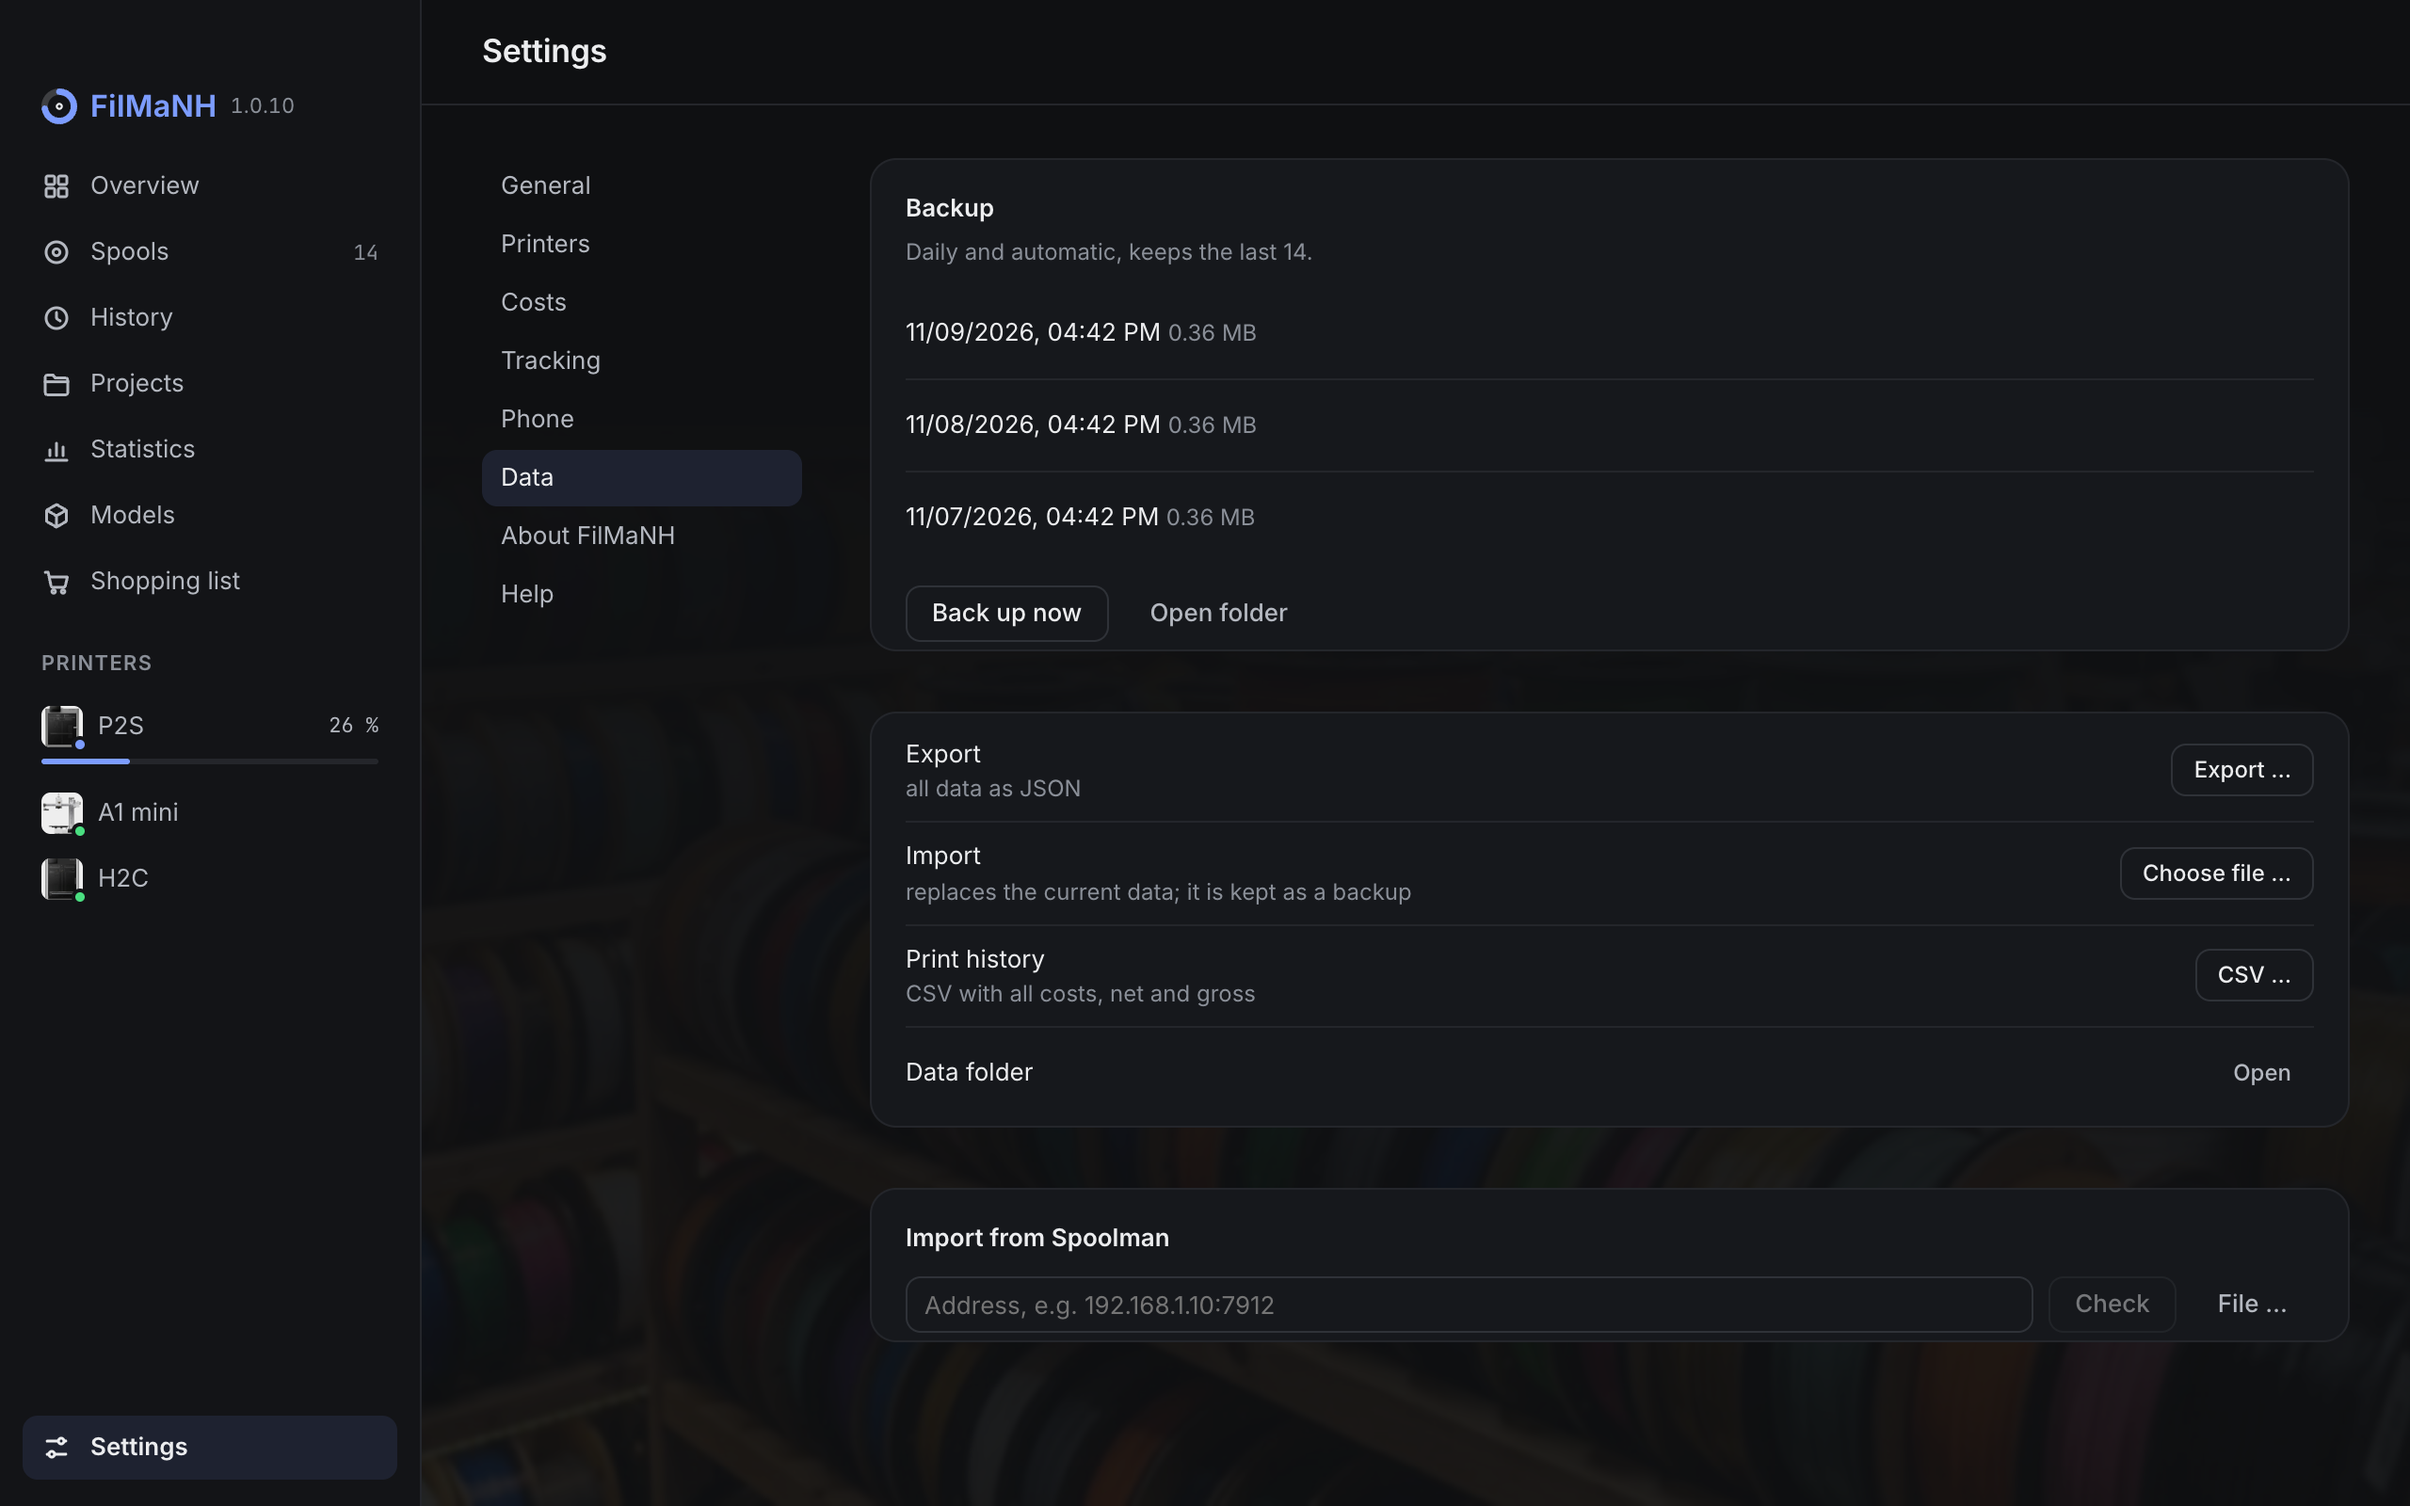
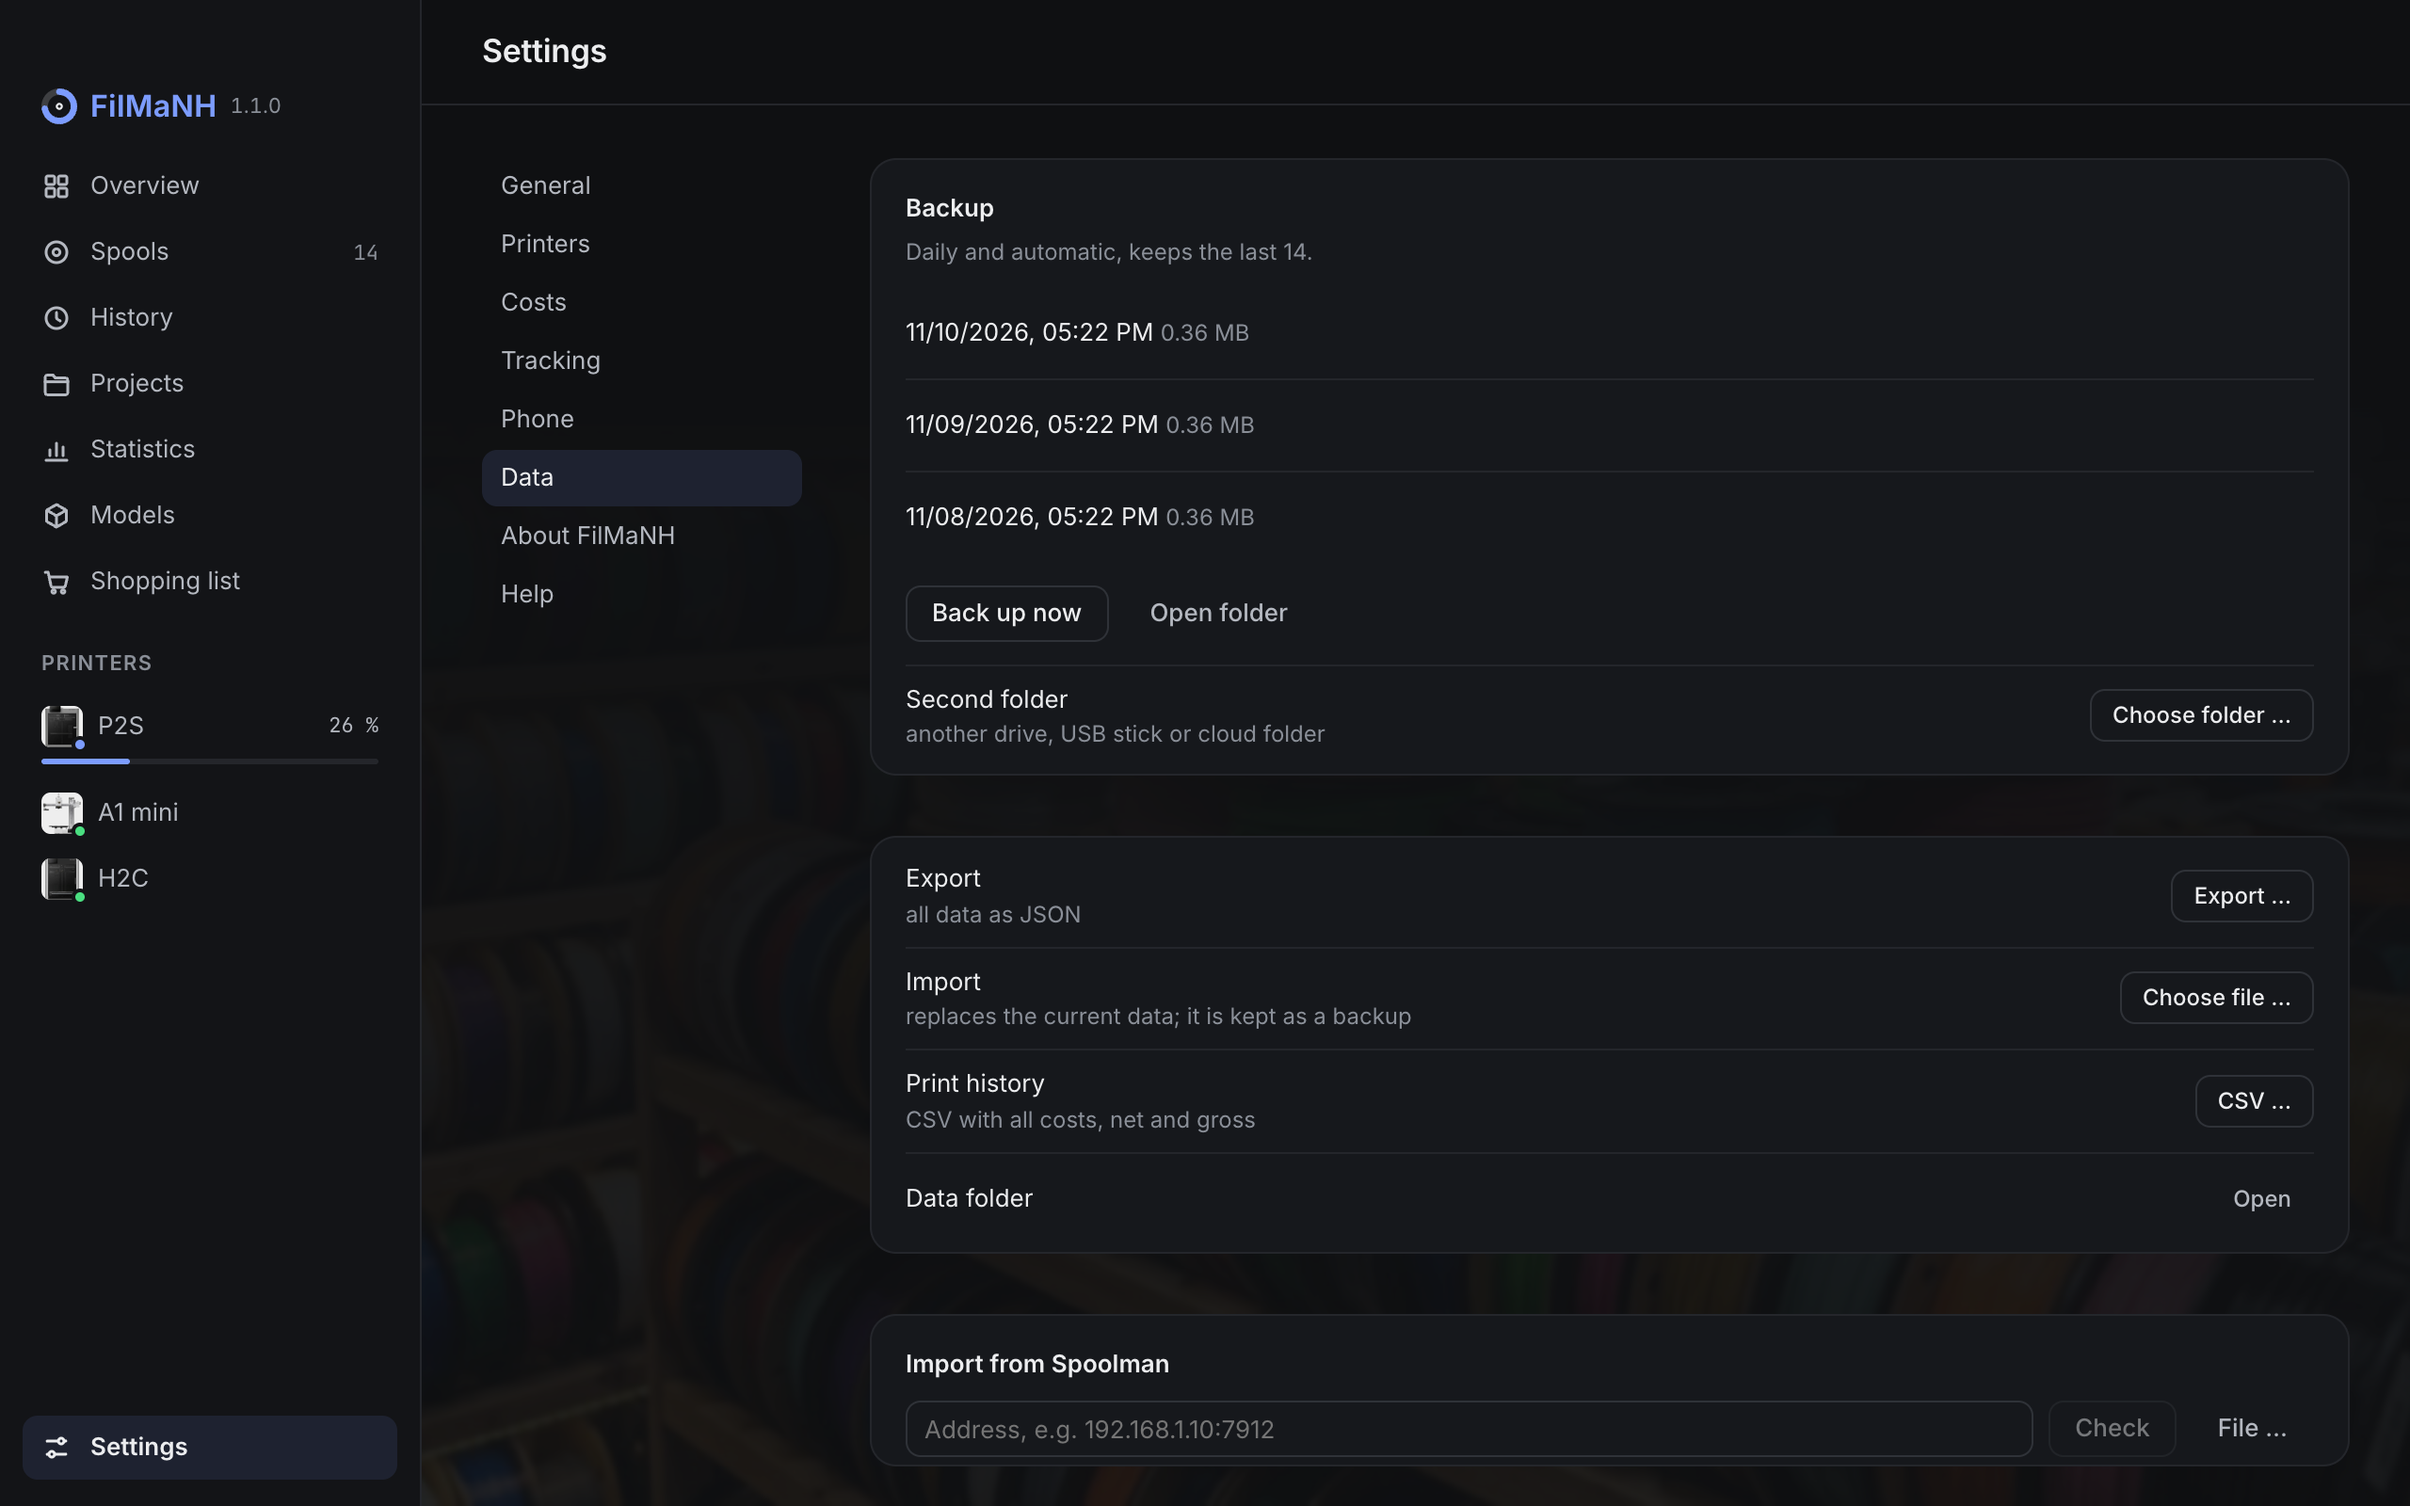
Handbuch: Sicherung in einen zweiten Ordner

diff --git a/handbook/README.md b/handbook/README.md
@@ -524,10 +524,10 @@ begins. Both only while FilMaNH is running and connected to the printer.
 ![Printer settings](images/22-einst-drucker.png)
 
 **Costs:** currency, VAT and whether prices are shown **Gross** or **Net**. All amounts on this page are shown and
-entered that way; internally FilMaNH calculates net. The VAT applies to electricity, printer purchase,
-selling price and new spools; each spool keeps its own rate. On a new installation, currency and VAT are preset for
-the system’s country (USA and Canada 0 %, since sales tax there varies by state or province; without a recognised
-country euro and 19 %).
+entered that way; internally FilMaNH calculates net. The VAT applies to electricity, printer purchase, selling
+price and new spools; each spool keeps its own rate. On a new installation, currency and VAT are preset for the
+system’s country (USA and Canada 0 %, since sales tax there varies by state or province; for a country FilMaNH
+doesn’t know, euro and 0 %; with no country at all, euro and 19 %).
 
 - **Electricity:** **Electricity price** per kWh and the power of each printer. Without your own value FilMaNH uses
   Bambu’s measured average for the model and the print’s material (e.g. A1 mini with PLA 80 W, P2S 200 W) – not the
@@ -580,6 +580,10 @@ What the apps can do is described in the handbooks for [iPhone](iphone.md) and [
 - Backup and export contain the database: spools, bookings, prints and settings – not photos, print files, 3D views,
   timelapses and source files. Those are in the data folder (`drucke`, `fotos`, `modelle`); copy it along when moving
   to another computer.
+- The backups are in the data folder as well, on the same disk. **Second folder** › **Choose folder …** also copies
+  every backup to a second place – another drive, a USB stick or a cloud folder; the last 14 versions are kept there
+  too. If the folder can’t be reached, FilMaNH tells you and copies the missing backups later. Versions that exist
+  only there appear in the list as well and can be restored – after a reinstall, for example.
 - **Import from Spoolman** reads spools from a Spoolman server (enter the address, **Check**) or a Spoolman export
   file (**File …**). First it shows what was found, then a second click imports the new spools. Archived spools and
   spools with a diameter other than 1.75 mm are left out; importing again creates no duplicates.

diff --git a/handbuch/README.md b/handbuch/README.md
@@ -532,7 +532,7 @@ Drucks ein. Beides nur, solange FilMaNH läuft und mit dem Drucker verbunden ist
 Seite werden so angezeigt und eingegeben; intern rechnet FilMaNH netto. Die Mehrwertsteuer gilt für Strom,
 Anschaffung, Verkaufspreis und neue Spulen; jede Spule behält ihren Satz. Bei einer neuen Installation sind Währung
 und Mehrwertsteuer nach dem Land des Systems vorbelegt (USA und Kanada 0 %, weil die Umsatzsteuer dort je nach Staat
-bzw. Provinz verschieden ist; ohne erkanntes Land Euro und 19 %).
+bzw. Provinz verschieden ist; für ein Land, das FilMaNH nicht kennt, Euro und 0 %; ganz ohne Land Euro und 19 %).
 
 - **Strom:** **Strompreis** je kWh und die Leistung jedes Druckers. Ohne eigene Leistung nimmt FilMaNH Bambus
   gemessenen Durchschnitt für das Modell und das Material des Drucks (z.B. A1 mini mit PLA 80 W, P2S 200 W) – nicht
@@ -585,6 +585,11 @@ Was die Apps können, steht in den Handbüchern für [iPhone](iphone.md) und [An
 - Sicherung und Export enthalten die Datenbank: Spulen, Buchungen, Drucke und Einstellungen – nicht Fotos,
   Druckdateien, 3D-Ansichten, Zeitraffer und Quelldateien. Die liegen im Datenordner (`drucke`, `fotos`, `modelle`);
   wer umzieht, kopiert ihn mit.
+- Die Sicherungen liegen ebenfalls im Datenordner, also auf derselben Platte. **Zweiter Ordner** › **Ordner wählen
+  …** kopiert jede Sicherung zusätzlich an einen zweiten Ort – eine andere Platte, einen Stick oder einen
+  Cloud-Ordner; auch dort bleiben die letzten 14 Stände. Ist der Ordner gerade nicht erreichbar, meldet FilMaNH das
+  und holt die Kopien später nach. Stände, die es nur dort gibt, stehen mit in der Liste und lassen sich
+  wiederherstellen – etwa nach einer Neuinstallation.
 - **Aus Spoolman übernehmen** liest Spulen aus einem Spoolman-Server (Adresse eingeben, **Prüfen**) oder einer
   Spoolman-Exportdatei (**Datei …**). Erst steht da, was gefunden wurde, dann übernimmt ein zweiter Klick die neuen
   Spulen. Archivierte und Spulen mit anderem Durchmesser als 1,75 mm bleiben außen vor; ein erneuter Import legt
